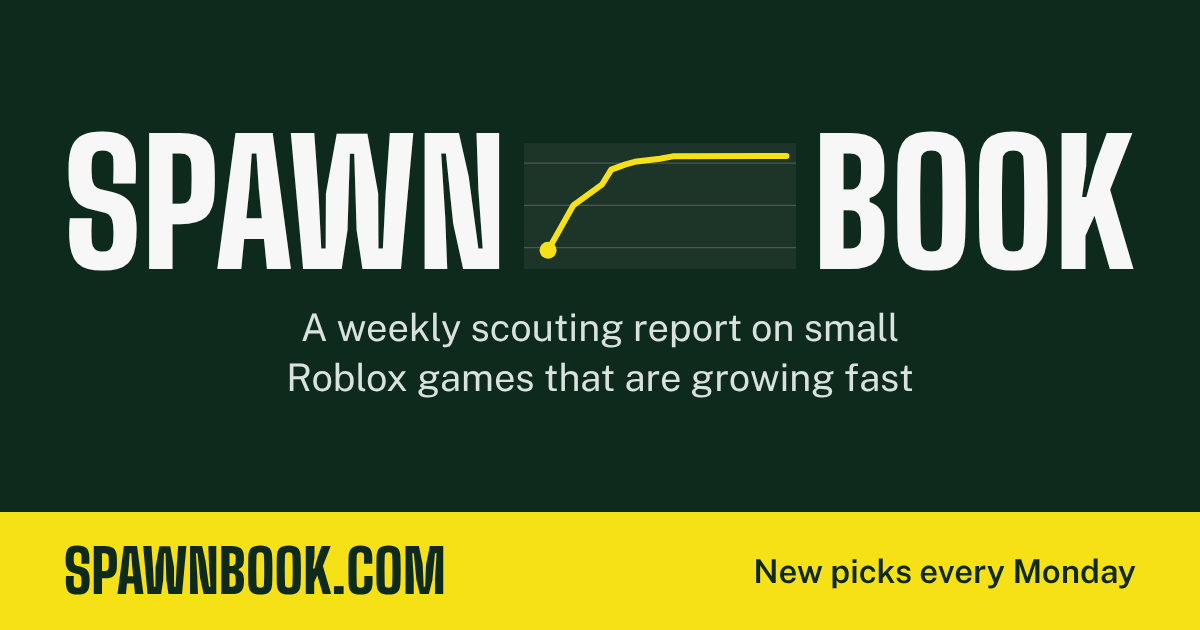
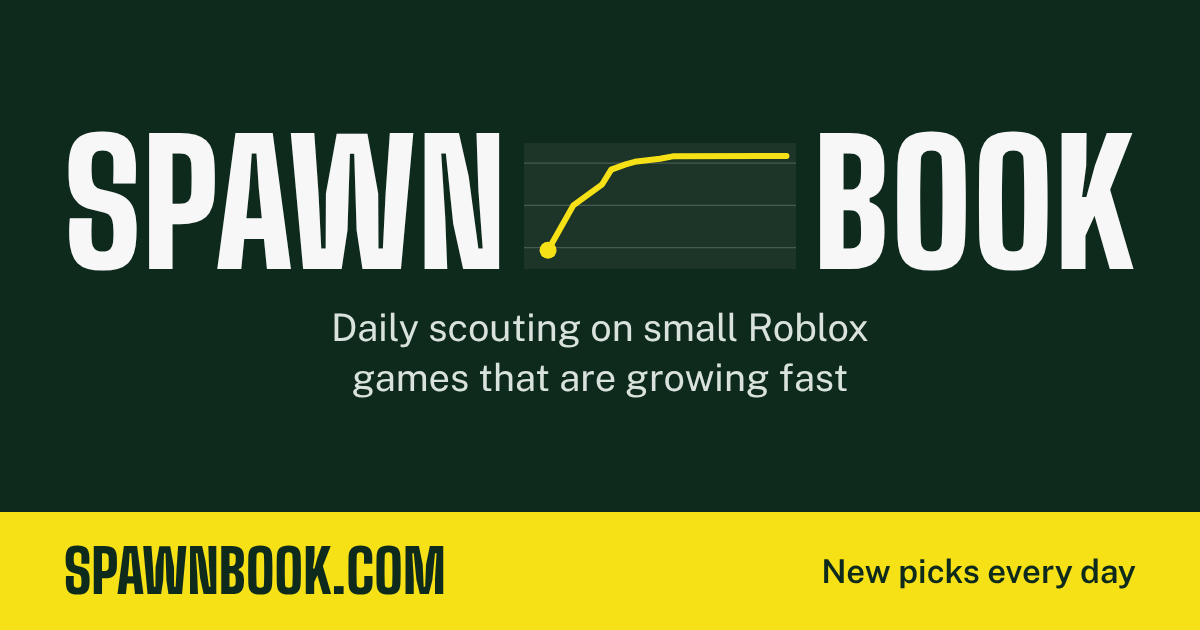
Switch the site to a daily board
The board and top five now refresh every day, so the page says "today"
instead of "this week". The paid weekly report and its track record stay
weekly. The preview image and link tags now say new picks every day.

Claude-Session: https://claude.ai/code/session_01MG5h2PcWTzMeMmEbkY2hv6

Changed region(s): [[0.2158, 0.4825, 0.7708, 0.6333], [0.6167, 0.8746, 0.8942, 0.9349]]

diff --git a/public/index.html b/public/index.html
@@ -5,18 +5,18 @@
 <meta name="viewport" content="width=device-width, initial-scale=1, viewport-fit=cover">
 <link rel="icon" href="favicon.svg" type="image/svg+xml">
 <title>Spawnbook</title>
-<meta name="description" content="A weekly scouting report on small Roblox games that are growing fast, scored on public data and priced against past hits.">
+<meta name="description" content="A daily board of small Roblox games that are growing fast, scored on public data and priced against past hits.">
 <link rel="canonical" href="https://spawnbook.com/">
 <meta property="og:type" content="website">
 <meta property="og:site_name" content="Spawnbook">
 <meta property="og:url" content="https://spawnbook.com/">
-<meta property="og:title" content="Spawnbook: weekly scouting on fast-growing Roblox games">
-<meta property="og:description" content="A weekly scouting report on small Roblox games that are growing fast, scored on public data and priced against past hits.">
+<meta property="og:title" content="Spawnbook: daily scouting on fast-growing Roblox games">
+<meta property="og:description" content="A daily board of small Roblox games that are growing fast, scored on public data and priced against past hits.">
 <meta property="og:image" content="https://spawnbook.com/og.png">
 <meta property="og:image:type" content="image/png">
 <meta property="og:image:width" content="1200">
 <meta property="og:image:height" content="630">
-<meta property="og:image:alt" content="The Spawnbook name with a rising player chart between the words, above the line: a weekly scouting report on small Roblox games that are growing fast.">
+<meta property="og:image:alt" content="The Spawnbook name with a rising player chart between the words, above the line: daily scouting on small Roblox games that are growing fast. New picks every day.">
 <meta name="twitter:card" content="summary_large_image">
 <script>document.documentElement.classList.add('js')</script>
 <style>
@@ -531,10 +531,10 @@ th.r, td.r, .mini .r { text-align: right; }
   </h1>
 
   <div class="hero-foot">
-    <p class="lead" data-load style="--d:420ms">Grow a Garden had about 500 to 1,000 players when a studio bought into it. This weekly report finds the next ones: small Roblox games growing fast, scored on public data and priced against past hits.</p>
+    <p class="lead" data-load style="--d:420ms">Grow a Garden had about 500 to 1,000 players when a studio bought into it. Spawnbook finds the next ones every day: small Roblox games growing fast, scored on public data and priced against past hits.</p>
     <p class="small hero-data" data-load style="--d:520ms"><span id="issue-date">Data as of Oct 23, 2026</span>. <span id="issue-note">Players counted at 1:29 AM Pacific.</span></p>
     <div class="hero-act" data-load style="--d:480ms">
-      <a class="button" href="#picks">See this week's picks</a>
+      <a class="button" href="#picks">See today's picks</a>
       <a class="plainlink" href="#requests" data-tab="tab-weekly">Get your first issue free</a>
     </div>
   </div>
@@ -543,9 +543,9 @@ th.r, td.r, .mini .r { text-align: right; }
 <main id="main" tabindex="-1">
 
   <section id="picks" class="sec wrap picks" aria-labelledby="picks-h">
-    <h2 id="picks-h" class="head" data-reveal><span class="l1">This week's</span>top five</h2>
+    <h2 id="picks-h" class="head" data-reveal><span class="l1">Today's</span>top five</h2>
     <div class="grid picks-body">
-      <figure class="card picks-card" id="top-card" data-ui data-reveal style="--i:2" aria-label="This week's top pick in detail"></figure>
+      <figure class="card picks-card" id="top-card" data-ui data-reveal style="--i:2" aria-label="Today's top pick in detail"></figure>
       <div class="picks-right">
         <ol class="pick-rows" id="picks-list" data-reveal style="--i:1"></ol>
         <p data-reveal style="--i:2">Free trackers show player counts. This report adds an estimated price, red flags and a public way to reach each owner. Prices are estimates from public numbers, so treat them as a starting point.</p>
@@ -560,7 +560,7 @@ th.r, td.r, .mini .r { text-align: right; }
         <h2 id="board-h" class="head" data-reveal>The full board</h2>
         <p class="small muted" data-reveal style="--i:1">Contact this week means a score of 75 or more; Watch means 60 to 74. Open "Why this score" on any game to see its six parts: momentum, stickiness, updates, originality, earnings and ease of buying. Players and rating are measured. Minutes per visit and prices are estimates. Splitting Point bought into Grow a Garden at about 500 to 1,000 players, so the small ones count.</p>
       </div>
-      <p class="c-r lead" id="lede-sub" data-reveal style="--i:1">Every game that made this week's cut, scored out of 100.</p>
+      <p class="c-r lead" id="lede-sub" data-reveal style="--i:1">Every game that made today's cut, scored out of 100.</p>
     </div>
     <div class="controls" data-ui>
       <div class="seg" role="group" aria-label="Filter by players">
@@ -585,7 +585,7 @@ th.r, td.r, .mini .r { text-align: right; }
       </label>
     </div>
     <p class="small board-count" id="board-count" aria-live="polite"></p>
-    <div class="board" id="board-list"><p class="empty">Loading this week's games.</p></div>
+    <div class="board" id="board-list"><p class="empty">Loading today's games.</p></div>
     <div class="grid board-foot">
       <p class="small muted c-l" data-reveal>Fast-rise genres are trend and sim games that tend to grow fast and fade. Slow-build genres are competitive, social or fishing games that tend to grow over months and last longer. Prices are estimates from public numbers, not reported earnings, and they aren't offers or appraisals.</p>
       <div class="asks c-r" data-reveal style="--i:1">
@@ -618,11 +618,11 @@ th.r, td.r, .mini .r { text-align: right; }
         <li><svg width="22" height="10" aria-hidden="true"><line x1="0" y1="5" x2="22" y2="5" stroke="var(--green)" stroke-width="2.5"/><circle cx="11" cy="5" r="3.5" fill="var(--green)"/></svg>Steal a Brainrot</li>
         <li><svg width="22" height="10" aria-hidden="true"><line x1="0" y1="5" x2="22" y2="5" stroke="var(--ochre)" stroke-width="2.5"/><rect x="7.5" y="1.5" width="7" height="7" fill="var(--ochre)"/></svg>Steal An Egg</li>
         <li><svg width="22" height="10" aria-hidden="true"><line x1="0" y1="5" x2="22" y2="5" stroke="var(--muted)" stroke-width="2.5" stroke-dasharray="4 3"/></svg>Grow a Garden 2 (faded)</li>
-        <li><svg width="12" height="12" aria-hidden="true"><circle cx="6" cy="6" r="5" fill="var(--ink)"/></svg>This week's board</li>
+        <li><svg width="12" height="12" aria-hidden="true"><circle cx="6" cy="6" r="5" fill="var(--ink)"/></svg>Today's board</li>
         <li><svg width="12" height="12" aria-hidden="true"><circle cx="6" cy="6" r="4.5" fill="var(--accent)" stroke="var(--ink)" stroke-width="1.5"/></svg>Scored 75+</li>
         <li><svg width="16" height="12" aria-hidden="true"><rect x="0" y="0" width="16" height="12" fill="var(--accent)" opacity="0.35"/></svg>Seed tier, 300 to 3,000 players</li>
       </ul>
-      <div class="chart-box" id="chart" role="img" aria-label="Log-scale chart of players by days since launch. Past hits Grow a Garden, Steal a Brainrot and Steal An Egg climb from thousands to millions of players within two months. Grow a Garden 2 opens near 1 million and falls to about 2,000. This week's board games sit far below the past hits."></div>
+      <div class="chart-box" id="chart" role="img" aria-label="Log-scale chart of players by days since launch. Past hits Grow a Garden, Steal a Brainrot and Steal An Egg climb from thousands to millions of players within two months. Grow a Garden 2 opens near 1 million and falls to about 2,000. Today's board games sit far below the past hits."></div>
       <p class="small muted" id="chart-note">Past hits show reported peaks and live counts, so they run high. Hover or tap a point for details, or open the numbers below.</p>
       <details class="data">
         <summary>Show the chart's numbers</summary>
@@ -695,7 +695,7 @@ th.r, td.r, .mini .r { text-align: right; }
       </div>
       <div data-reveal style="--i:2">
         <h3>Unusual numbers to check first</h3>
-        <p class="small">Bots and AFK farms can inflate players and play time, and they tend not to vote or favorite. These numbers stand out from the rest of this week's pool. There can be ordinary reasons, so ask the creator before pricing.</p>
+        <p class="small">Bots and AFK farms can inflate players and play time, and they tend not to vote or favorite. These numbers stand out from the rest of today's pool. There can be ordinary reasons, so ask the creator before pricing.</p>
         <ul id="flag-list"></ul>
       </div>
     </div>
@@ -921,7 +921,7 @@ th.r, td.r, .mini .r { text-align: right; }
       <div class="method-body c-r">
         <p id="method-readings" data-reveal>We read Roblox's public chart lists and pulled each game's public stats.</p>
         <p data-reveal>Minutes per visit is players × 1,440 ÷ visits a day.</p>
-        <p data-reveal>Momentum and stickiness are ranked against the rest of this week's pool. Each unusual-number flag takes off 5 points and moves the game to the check-first list. The weights are our judgment, not a tested model.</p>
+        <p data-reveal>Momentum and stickiness are ranked against the rest of today's pool. Each unusual-number flag takes off 5 points and moves the game to the check-first list. The weights are our judgment, not a tested model.</p>
         <p class="formula" data-reveal>Revenue a month = visits a month × 1–3% who pay × 150 Robux × 70% creator share × $0.0038 per Robux, or about $0.004 to $0.012 per visit</p>
         <p data-reveal>The price we show is middle revenue × middle months, marked low confidence. The full range in each game's details runs from low revenue × low months to high revenue × high months, a 6× spread that reflects how little you can see from outside a game. Once we've tracked a game for 4 weeks, the months come from its measured decline instead of its genre. Rebuild the price on real revenue once the seller shares it. A 2026 game probably earns less per player than the 2025 hits did.</p>
       </div>
@@ -968,7 +968,7 @@ th.r, td.r, .mini .r { text-align: right; }
 
 <footer class="foot wrap">
   <div class="foot-top">
-    <p>Spawnbook. A weekly scouting report on young Roblox games, for the studios and investors who buy them.</p>
+    <p>Spawnbook. A daily board and a weekly report on young Roblox games, for the studios and investors who buy them.</p>
     <p id="foot-data">Data as of Oct 23, 2026.</p>
     <a class="link" href="#top">Back to top</a>
   </div>
@@ -1084,7 +1084,7 @@ th.r, td.r, .mini .r { text-align: right; }
   var BR = window.BR;
   if (!BR || !BR.BOARD) {
     $("board-list").textContent = "";
-    $("board-list").appendChild(el("p", "empty", "This week's data didn't load. Refresh the page to try again."));
+    $("board-list").appendChild(el("p", "empty", "Today's data didn't load. Refresh the page to try again."));
     return;
   }
   var META = BR.META, BOARD = BR.BOARD, BIG = BR.BIG, BIG_NOTES = BR.BIG_NOTES || {}, IP_OFF = BR.IP_OFF || [], FLAG_OFF = BR.FLAG_OFF || [];
@@ -1157,14 +1157,14 @@ th.r, td.r, .mini .r { text-align: right; }
   P.slice().sort(function (a, b) { return b.score - a.score; }).forEach(function (p, i) { p.rank = i + 1; });
   var byScore = P.slice().sort(function (a, b) { return b.score - a.score || b.playing - a.playing; });
 
-  // ---------- page text from this week's data ----------
+  // ---------- page text from today's data ----------
   var hot = P.filter(function (p) { return p.score >= 75; }).length;
   $("issue-date").textContent = "Data as of " + META.snapshot;
   $("issue-note").textContent = META.issueNote;
   $("foot-data").textContent = "Data as of " + META.snapshot + ".";
-  $("lede-sub").textContent = "Every game that made this week's cut, scored out of 100. We checked " + commas(META.checked) + " games across Roblox's public chart lists. " + META.pool + " were under four months old, had 500 to 15,000 players and were rated 85% or better. " + P.length + " made the board. " + hot + " scored 75 or higher.";
+  $("lede-sub").textContent = "Every game that made today's cut, scored out of 100. We checked " + commas(META.checked) + " games across Roblox's public chart lists. " + META.pool + " were under four months old, had 500 to 15,000 players and were rated 85% or better. " + P.length + " made the board. " + hot + " scored 75 or higher.";
   $("method-readings").textContent = META.readings;
-  $("chart-note").textContent = "Past hits show reported peaks and live counts, so they run high. This week's games show " + META.playersNote + ", so they run low. Hover or tap a point for details, or open the numbers below.";
+  $("chart-note").textContent = "Past hits show reported peaks and live counts, so they run high. Today's games show " + META.playersNote + ", so they run low. Hover or tap a point for details, or open the numbers below.";
   var minP = Math.min.apply(null, P.map(function (p) { return p.playing; }));
   if (minP <= 1000) $("tk1").textContent = "Most games on the board are already bigger than Grow a Garden was at its buy-in.";
   if (P.some(function (p) { return p.age <= 32 && p.playing >= 50000; })) $("tk2").textContent = "Check any game near that pace closely";
@@ -1245,7 +1245,7 @@ th.r, td.r, .mini .r { text-align: right; }
     });
     var top = byScore[0], card = $("top-card");
     var t = el("div", "c-top");
-    var nm = el("div"); nm.appendChild(el("span", "small muted", "Top pick this week")); nm.appendChild(el("p", "c-name", top.name)); t.appendChild(nm);
+    var nm = el("div"); nm.appendChild(el("span", "small muted", "Today's top pick")); nm.appendChild(el("p", "c-name", top.name)); t.appendChild(nm);
     var sc = el("div"); sc.appendChild(el("span", "c-score", String(top.score))); t.appendChild(sc);
     card.appendChild(t);
     card.appendChild(band(top));
@@ -1477,7 +1477,7 @@ th.r, td.r, .mini .r { text-align: right; }
       li.appendChild(el("span", "why-off", r[4]));
       ul.appendChild(li);
     });
-    if (!rows.length) ul.appendChild(el("li", "small", "Nothing this week."));
+    if (!rows.length) ul.appendChild(el("li", "small", "Nothing today."));
   }
   fillList("ip-list", IP_OFF);
   fillList("flag-list", FLAG_OFF);
@@ -1596,7 +1596,7 @@ th.r, td.r, .mini .r { text-align: right; }
 
   var ct = document.querySelector("#chart-table tbody");
   COMPS.forEach(function (c) { c.pts.forEach(function (p) { var tr = el("tr"); tr.appendChild(el("td", null, c.name)); tr.appendChild(el("td", "r", String(p[0]))); tr.appendChild(el("td", "r", commas(p[1]))); tr.appendChild(el("td", null, p[2])); ct.appendChild(tr); }); });
-  byScore.forEach(function (p) { var tr = el("tr"); tr.appendChild(el("td", null, p.name)); tr.appendChild(el("td", "r", String(p.age))); tr.appendChild(el("td", "r", commas(p.playing))); tr.appendChild(el("td", null, "This week, score " + p.score)); ct.appendChild(tr); });
+  byScore.forEach(function (p) { var tr = el("tr"); tr.appendChild(el("td", null, p.name)); tr.appendChild(el("td", "r", String(p.age))); tr.appendChild(el("td", "r", commas(p.playing))); tr.appendChild(el("td", null, "Today, score " + p.score)); ct.appendChild(tr); });
 
   // ---------- value: the headline you can type ----------
   var fade = "stair";

diff --git a/README.md b/README.md
@@ -1,6 +1,6 @@
 # Spawnbook
 
-A weekly scouting report on small, fast-growing Roblox games for the studios and investors who buy them. Scores each game out of 100 from public Roblox data, estimates what it could sell for, flags risks, and includes a free valuation tool for developers. Data updates automatically every day.
+A daily board and a weekly report on small, fast-growing Roblox games, for the studios and investors who buy them. Scores each game out of 100 from public Roblox data, estimates what it could sell for, flags risks, and includes a free valuation tool for developers. Data updates automatically every day.
 
 ## What's in here
 
@@ -9,7 +9,7 @@ Everything the site serves is in `public/`:
 | File | What it is |
 | --- | --- |
 | `index.html` | The report page. It reads this week's numbers from `data.js`. |
-| `data.js` | This week's board, picks and tables. Replaced automatically every Monday. |
+| `data.js` | Today's board, picks and tables. Replaced automatically every day. |
 | `privacy.html`, `terms.html`, `cookies.html`, `refunds.html`, `legal.css` | The policy pages. |
 | `fonts/` | Big Shoulders and Public Sans, served from the site itself. Both are under the SIL Open Font License (see the `OFL-*.txt` files). |
 | `favicon.svg` | The browser-tab icon. |
@@ -26,4 +26,4 @@ Visits are counted with Cloudflare Web Analytics, which Cloudflare adds to each 
 
 ## How the data updates
 
-A scheduled task reads Roblox's public charts once a day and keeps a daily record. On Mondays it writes a new `public/data.js` and commits it here, which redeploys the site.
+A scheduled task reads Roblox's public charts once a day and keeps a daily record. Each run writes a new `public/data.js` and commits it here, which redeploys the site. On Mondays it also logs that week's picks for the weekly report and its track record.
